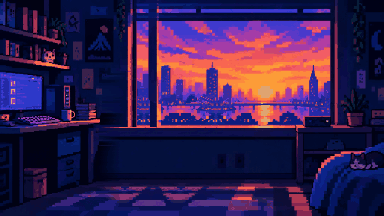
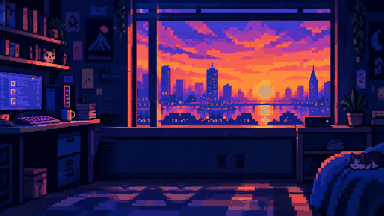
Waiting screen: the man in five poses from the edited concept, fading one into the next
The edited versions of the concept (sitting by the window with a cup,
working at the computer twice, stretching) are aligned already; inside an
outline around the man and his chair each gives its own pixels, on the
window's glass only what stands out from the sky (an arm up), so the room,
the sky and the city stay the concept's in every pose (room_assets.py
frames/). One palette for all. The scene holds a pose and fades into the
next — a 20-second story ending where it starts. No more pixel twitching
for breath.

Claude-Session: https://claude.ai/code/session_018CFztNkUY3ojhNe98wbeto

diff --git a/kompas_ai_plugin/prototype/room_assets.py b/kompas_ai_plugin/prototype/room_assets.py
@@ -1,6 +1,6 @@
 """Make the pictures of the waiting screen from the concept image.
 
-    python room_assets.py concept.png ../core/kompas_ai/gui/assets
+    python room_assets.py concept.png ../core/kompas_ai/gui/assets [frames/]
 
 The concept (a pixel-art room at dawn, the man in his chair by the window)
 is boxed down to 384 × 216 pixels and reduced to one small palette. Out
@@ -10,6 +10,13 @@ water go on from the glass to their right, the sill, the cabinet and the
 floor go on row by row, the wall between the desk and the window is its own
 colour —, and the man with his chair cut out (room_man.png, transparent
 around), as he sits on the concept: feet on the sill.
+
+With frames/ (the same room, the same camera, the man in other poses —
+work1, work2, sit, stretch .png/.jpg, made from the concept by an image
+editor), each pose is cut out too (pose_<name>.png): inside an outline
+drawn around the man and his chair the frame's own pixels, except on the
+window's glass, where only what stands out from the sky is his (an arm up);
+so the sky, the city and the room stay the concept's in every pose.
 """
 
 import sys
@@ -27,6 +34,21 @@ MAN = [(103, 77), (117, 70), (133, 72), (141, 82), (142, 95), (152, 102), (172, 
        (180, 152), (178, 168), (182, 178), (176, 205), (150, 206), (116, 206), (99, 192),
        (97, 170), (100, 140), (102, 110), (103, 95)]
 POSTS = list(range(126, 137)) + list(range(150, 161))  # the lit wall edge, the window post
+
+# outlines of the man and his chair in the other poses (384 × 216)
+WORK = [(44, 108), (70, 100), (90, 96), (98, 70), (110, 60), (130, 63), (138, 78), (152, 82),
+        (158, 92), (158, 140), (154, 175), (162, 200), (140, 207), (100, 205), (58, 203),
+        (54, 186), (68, 174), (70, 150), (58, 130), (44, 128)]
+LEGS = [(168, 125), (186, 133), (196, 150), (194, 176), (188, 194), (170, 200), (140, 207),
+        (100, 205), (95, 180), (97, 130)]
+POSES = {
+    "work1": WORK,
+    "work2": WORK,
+    "sit": [(98, 95), (106, 70), (120, 62), (142, 64), (152, 78), (166, 98), (170, 120)] + LEGS,
+    "stretch": [(98, 95), (102, 38), (126, 34), (126, 76), (140, 72), (148, 80), (148, 36),
+                (172, 34), (172, 118)] + LEGS,
+}
+GLASS = (137, 12, 331, 126)  # x0, y0, x1, y1 of the window's glass
 
 
 def clean(img: np.ndarray, mask: np.ndarray) -> np.ndarray:
@@ -79,15 +101,36 @@ def clean(img: np.ndarray, mask: np.ndarray) -> np.ndarray:
     return res
 
 
-def main(src: str, out_dir: str) -> None:
+def pose_masks(frame: np.ndarray, room: np.ndarray, outline) -> np.ndarray:
+    m = Image.new("L", (W, H), 0)
+    ImageDraw.Draw(m).polygon(outline, fill=255)
+    mask = np.asarray(m) > 0
+    x0, y0, x1, y1 = GLASS
+    glass = np.zeros_like(mask)
+    glass[y0:y1, x0:x1] = True
+    glass[:, POSTS] = False
+    # on the glass: only what is much darker than the sky behind it
+    stands_out = (room.sum(axis=2) - frame.sum(axis=2)) > 150
+    grown = stands_out.copy()
+    for dy, dx in ((0, 1), (0, -1), (1, 0), (-1, 0)):
+        grown |= np.roll(np.roll(stands_out, dy, 0), dx, 1)
+    return mask & (~glass | grown)
+
+
+def main(src: str, out_dir: str, frames_dir: str | None = None) -> None:
     out = Path(out_dir)
     img = np.asarray(Image.open(src).convert("RGB").resize((W, H), Image.BOX)).astype(float)
     m = Image.new("L", (W, H), 0)
     ImageDraw.Draw(m).polygon(MAN, fill=255)
     mask = np.asarray(m) > 0
     bg = clean(img, mask)
+    frames = {}
+    for name in POSES if frames_dir else ():
+        path = next(Path(frames_dir).glob(f"{name}.*"), None)
+        if path is not None:
+            frames[name] = np.asarray(Image.open(path).convert("RGB").resize((W, H), Image.BOX)).astype(float)
     # one palette for all, no dithering: the concept is dithered already
-    sheet = Image.fromarray(np.vstack([bg, img]).clip(0, 255).astype(np.uint8))
+    sheet = Image.fromarray(np.vstack([bg, img, *frames.values()]).clip(0, 255).astype(np.uint8))
     pal = sheet.quantize(colors=COLORS, method=Image.Quantize.MEDIANCUT)
 
     def q(a):
@@ -97,7 +140,12 @@ def main(src: str, out_dir: str) -> None:
     q(bg).save(out / "room_bg.png")
     man = np.asarray(q(img))
     Image.fromarray(np.dstack([man, mask.astype(np.uint8) * 255]), "RGBA").save(out / "room_man.png")
+    for name, frame in frames.items():
+        keep = pose_masks(frame, bg, POSES[name])
+        pix = np.asarray(q(frame))
+        Image.fromarray(np.dstack([pix, keep.astype(np.uint8) * 255]), "RGBA").save(
+            out / f"pose_{name}.png")
 
 
 if __name__ == "__main__":
-    main(sys.argv[1], sys.argv[2])
+    main(sys.argv[1], sys.argv[2], sys.argv[3] if len(sys.argv) > 3 else None)

diff --git a/kompas_ai_plugin/core/kompas_ai/gui/pixel_scene.py b/kompas_ai_plugin/core/kompas_ai/gui/pixel_scene.py
@@ -1,16 +1,17 @@
 """The waiting screen: a pixel-art room at dawn, 384 × 216 pixels.
 
-The room and the man resting with his feet on the window sill are the
-concept picture (assets/, made by prototype/room_assets.py): the room
-without him, and him with his chair cut out. He only breathes: his head and
-shoulders rise a pixel and settle, slowly (moving parts of a cut-out apart
-by single pixels looked like a glitch).
+All from the concept picture and its edited versions (assets/, made by
+prototype/room_assets.py): the room without the man, and the man with his
+chair in five poses — feet on the window sill (the concept), sitting by the
+window with a cup, working at the computer (twice), stretching. He holds a
+pose and fades into the next: a 20-second story whose last frame is its
+first. The room is the same in every pose, so only he changes.
 
 Quiet movements over the still room: the windows of the city flicker, the
 sun's path on the water shimmers, the screen glows, its cursor blinks, the
 keyboard breathes, the tower's lights blink, steam rises from the mug.
-LOOP seconds, the last frame being the first.
 """
+
 from __future__ import annotations
 
 import math
@@ -44,10 +45,15 @@ _A: dict = {}
 def _assets() -> dict:
     if not _A:
         d = _asset_dir()
-        got = {name: QImage(str(d / f"{name}.png")).convertToFormat(QImage.Format_ARGB32)
-               for name in ("room_bg", "room_man")}
+        got = {"room_bg": QImage(str(d / "room_bg.png")).convertToFormat(QImage.Format_ARGB32)}
         got["lights"] = _city_lights(got["room_bg"])
-        got["parts"] = _parts(got["room_man"])
+        layers = {}
+        for name in POSES:
+            path = d / ("room_man.png" if name == "man" else f"pose_{name}.png")
+            v = _view(QImage(str(path)).convertToFormat(QImage.Format_ARGB32)).astype(np.float32)
+            v[:, :, 3] /= 255.0
+            layers[name] = v  # BGR and the share of the pose, 0 or 1
+        got["layers"] = layers
         _A.update(got)  # all or nothing
     return _A
 
@@ -75,18 +81,24 @@ def _city_lights(bg: QImage):
     return out
 
 
-# --- the man ---------------------------
+# --- the man and his poses ---------------------------------------------------------------
 
-BREATH = 4.0  # seconds of one breath
-LEGS_X, UPPER_Y = 158, 118  # his head and shoulders: left of LEGS_X, above UPPER_Y
+# (pose, start, end): he holds a pose, then fades into the next one
+STORY = [("man", 0.0, 4.5), ("sit", 5.2, 7.5), ("work1", 8.2, 10.0), ("work2", 10.4, 12.0),
+         ("work1", 12.4, 13.6), ("stretch", 14.3, 16.0), ("sit", 16.7, 17.6), ("man", 18.4, 20.0)]
+POSES = ("man", "sit", "work1", "work2", "stretch")
 
 
-def _parts(man: QImage) -> dict:
-    """The part of the cut-out that breathes: head and shoulders."""
-    ys, xs = np.mgrid[0:H, 0:W]
-    img = man.copy()
-    _view(img)[~((ys < UPPER_Y) & (xs < LEGS_X)), 3] = 0
-    return {"upper": img}
+def story(t: float) -> tuple[str, str, float]:
+    """(this pose, the next one, how far the fade into it has gone)."""
+    t %= LOOP
+    for (a, _, end), (b, start, _) in zip(STORY, STORY[1:]):
+        if t < end:
+            return a, a, 0.0
+        if t < start:
+            k = (t - end) / (start - end)
+            return a, b, k * k * (3 - 2 * k)
+    return STORY[-1][0], STORY[-1][0], 0.0
 
 
 def paint(img: QImage, t: float) -> None:
@@ -98,11 +110,16 @@ def paint(img: QImage, t: float) -> None:
     p.setRenderHint(QPainter.SmoothPixmapTransform, False)
     p.drawImage(0, 0, a["room_bg"])
     _ambient(p, a, t)
-    p.drawImage(0, 0, a["room_man"])
-    # he breathes: head and shoulders rise a pixel, slowly, and settle
-    if (t % BREATH) < BREATH * 0.45:
-        p.drawImage(0, -1, a["parts"]["upper"])
     p.end()
+    now, nxt, k = story(t)
+    out = _view(img)
+    la, lb = a["layers"][now], a["layers"][nxt]
+    if now == nxt:
+        wa, wb = la[:, :, 3:4], 0.0
+    else:  # fading: his old pose gives way to the room and the new one
+        wa, wb = la[:, :, 3:4] * (1.0 - k), lb[:, :, 3:4] * k
+    mix = out[:, :, :3] * (1.0 - wa - wb) + la[:, :, :3] * wa + lb[:, :, :3] * wb
+    out[:, :, :3] = mix.astype(np.uint8)
 
 
 def _ambient(p: QPainter, a: dict, t: float) -> None:
